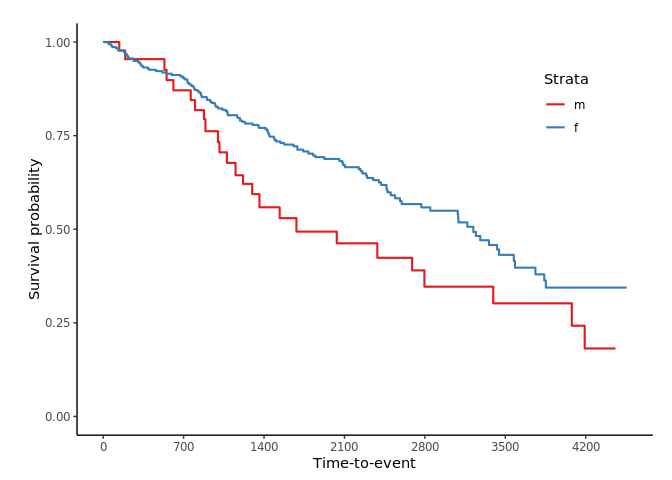
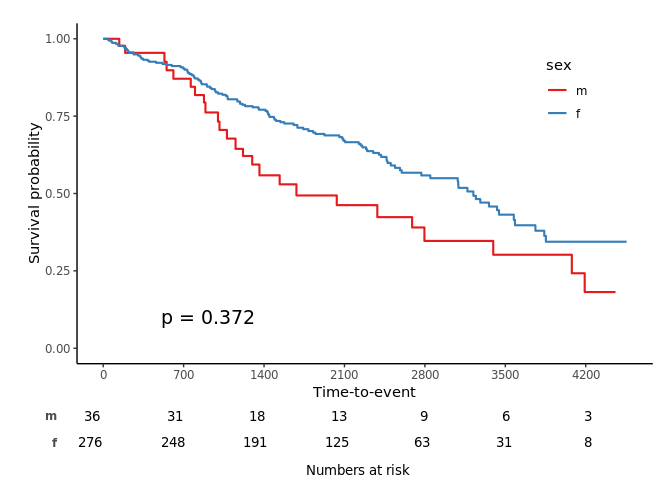
0.3.0

diff --git a/NEWS.md b/NEWS.md
@@ -1,3 +1,13 @@
+# jskm 0.3.0
+
+## New feature
+
+* Add **Number at risk table** option to `svyjskm`. The number at risk is no-weighted values (same to `jskm`).  
+
+## Bug fixes
+
+* Appropriate default **pval.coord** in `svyjskm`.
+
 # jskm 0.2.8
 
 ## Bug fixes

diff --git a/README.md b/README.md
@@ -71,7 +71,7 @@ svyjskm(s1)
 ![](man/figures/README-unnamed-chunk-3-1.png)
 
 ``` r
-svyjskm(s2, pval = T, design = dpbc)
+svyjskm(s2, pval = T,  table = T, design = dpbc)
 ```
 
 ![](man/figures/README-unnamed-chunk-3-2.png)
